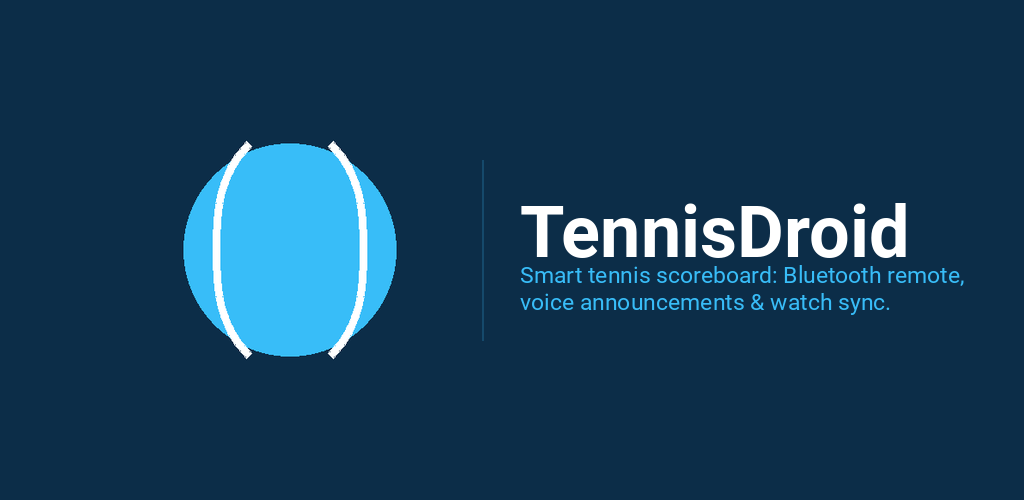
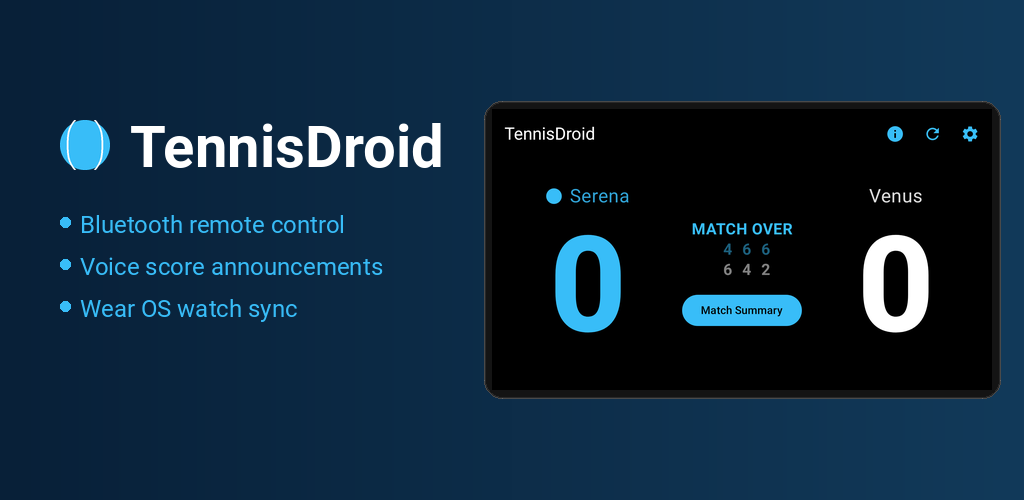
Fix feature graphic

diff --git a/assets/generate_feature_graphic.py b/assets/generate_feature_graphic.py
@@ -1,6 +1,11 @@
 #!/usr/bin/env python3
-"""Generate a 1024x500 Play Store feature graphic for TennisDroid."""
+"""Generate a 1024x500 Play Store feature graphic for TennisDroid.
 
+Layout: left side has app icon + title + feature bullets,
+right side has a landscape screenshot in a device mockup frame.
+"""
+
+import math
 import os
 from pathlib import Path
 
@@ -8,71 +13,309 @@ from PIL import Image, ImageDraw, ImageFont
 
 # Resolve paths relative to this script's directory
 SCRIPT_DIR = Path(os.path.dirname(os.path.abspath(__file__)))
+PROJECT_DIR = SCRIPT_DIR.parent
 
 WIDTH, HEIGHT = 1024, 500
 SKY_BLUE = (56, 189, 248)  # #38BDF8
 WHITE = (255, 255, 255)
-NAVY = (12, 45, 72)  # #0C2D48 — matches icon background
+NAVY_DARK = (8, 32, 56)  # darker left edge
+NAVY_LIGHT = (18, 58, 90)  # lighter right edge
+BEZEL_COLOR = (40, 40, 40)  # dark gray device frame
+BEZEL_INNER = (20, 20, 20)  # slightly darker inner edge
 
-img = Image.new("RGB", (WIDTH, HEIGHT), NAVY)
-draw = ImageDraw.Draw(img, "RGBA")
 
-# --- App icon (paste the actual 512px icon directly) ---
-# Background matches NAVY so the icon blends seamlessly
-icon = Image.open(SCRIPT_DIR / "app_icon_512.png").convert("RGB")
-icon_size = 440
-icon = icon.resize((icon_size, icon_size), Image.LANCZOS)
-icon_x = 290 - icon_size // 2
-icon_y = HEIGHT // 2 - icon_size // 2
-img.paste(icon, (icon_x, icon_y))
+def lerp_color(c1, c2, t):
+    """Linearly interpolate between two RGB colors."""
+    return tuple(int(a + (b - a) * t) for a, b in zip(c1, c2))
 
-# Reinit draw after paste
-draw = ImageDraw.Draw(img, "RGBA")
 
-# --- Text on the right side ---
-try:
-    title_font = ImageFont.truetype("/Library/Fonts/Roboto-Bold.ttf", 72)
-    tagline_font = ImageFont.truetype("/Library/Fonts/Roboto-Regular.ttf", 23)
-except OSError:
+def draw_gradient(img, c1, c2):
+    """Draw a left-to-right horizontal gradient."""
+    draw = ImageDraw.Draw(img)
+    for x in range(img.width):
+        t = x / (img.width - 1)
+        color = lerp_color(c1, c2, t)
+        draw.line([(x, 0), (x, img.height)], fill=color)
+
+
+def draw_rounded_rect(draw, bbox, radius, fill=None, outline=None, width=1):
+    """Draw a rounded rectangle (compatible with older Pillow versions)."""
+    x0, y0, x1, y1 = bbox
+    if fill:
+        # Fill the rounded rectangle using overlapping rectangles + circles
+        draw.rectangle([x0 + radius, y0, x1 - radius, y1], fill=fill)
+        draw.rectangle([x0, y0 + radius, x1, y1 - radius], fill=fill)
+        draw.pieslice([x0, y0, x0 + 2 * radius, y0 + 2 * radius], 180, 270, fill=fill)
+        draw.pieslice(
+            [x1 - 2 * radius, y0, x1, y0 + 2 * radius], 270, 360, fill=fill
+        )
+        draw.pieslice(
+            [x0, y1 - 2 * radius, x0 + 2 * radius, y1], 90, 180, fill=fill
+        )
+        draw.pieslice(
+            [x1 - 2 * radius, y1 - 2 * radius, x1, y1], 0, 90, fill=fill
+        )
+    if outline:
+        # Draw the outline arcs and lines
+        draw.arc(
+            [x0, y0, x0 + 2 * radius, y0 + 2 * radius],
+            180,
+            270,
+            fill=outline,
+            width=width,
+        )
+        draw.arc(
+            [x1 - 2 * radius, y0, x1, y0 + 2 * radius],
+            270,
+            360,
+            fill=outline,
+            width=width,
+        )
+        draw.arc(
+            [x0, y1 - 2 * radius, x0 + 2 * radius, y1],
+            90,
+            180,
+            fill=outline,
+            width=width,
+        )
+        draw.arc(
+            [x1 - 2 * radius, y1 - 2 * radius, x1, y1],
+            0,
+            90,
+            fill=outline,
+            width=width,
+        )
+        draw.line(
+            [(x0 + radius, y0), (x1 - radius, y0)], fill=outline, width=width
+        )
+        draw.line(
+            [(x0 + radius, y1), (x1 - radius, y1)], fill=outline, width=width
+        )
+        draw.line(
+            [(x0, y0 + radius), (x0, y1 - radius)], fill=outline, width=width
+        )
+        draw.line(
+            [(x1, y0 + radius), (x1, y1 - radius)], fill=outline, width=width
+        )
+
+
+def cubic_bezier(p0, p1, p2, p3, steps=64):
+    """Evaluate a cubic bezier curve, returning a list of (x, y) points."""
+    points = []
+    for i in range(steps + 1):
+        t = i / steps
+        u = 1 - t
+        x = u**3 * p0[0] + 3 * u**2 * t * p1[0] + 3 * u * t**2 * p2[0] + t**3 * p3[0]
+        y = u**3 * p0[1] + 3 * u**2 * t * p1[1] + 3 * u * t**2 * p2[1] + t**3 * p3[1]
+        points.append((x, y))
+    return points
+
+
+def draw_tennis_ball(size):
+    """Draw a tennis ball at the given size with transparent background.
+
+    Based on the Android vector drawable: a sky-blue circle with two white
+    seam curves. The ball fills the entire output image (no viewport padding).
+    """
+    # Render at 4x for antialiasing, then downscale
+    render_size = size * 4
+
+    # In the original 108-unit viewport, the ball is centered at (54,54)
+    # with radius 26, so it spans from 28 to 80 (diameter 52).
+    # We remap all coordinates so the ball fills the canvas:
+    #   new_coord = (old_coord - 28) / 52 * render_size
+    def remap(x, y):
+        return ((x - 28) / 52 * render_size, (y - 28) / 52 * render_size)
+
+    ball_img = Image.new("RGBA", (render_size, render_size), (0, 0, 0, 0))
+    draw = ImageDraw.Draw(ball_img, "RGBA")
+
+    # Ball body: fills the canvas
+    draw.ellipse([0, 0, render_size - 1, render_size - 1], fill=SKY_BLUE + (255,))
+
+    # Seam curves (white, stroke width 2 in 108-unit space -> scaled)
+    stroke_w = max(1, int(2 / 52 * render_size))
+
+    # Left seam: M44,28 C36,36 36,46 36,54 C36,62 36,72 44,80
+    left_pts = cubic_bezier(
+        remap(44, 28), remap(36, 36), remap(36, 46), remap(36, 54),
+    ) + cubic_bezier(
+        remap(36, 54), remap(36, 62), remap(36, 72), remap(44, 80),
+    )
+
+    # Right seam: M64,28 C72,36 72,46 72,54 C72,62 72,72 64,80
+    right_pts = cubic_bezier(
+        remap(64, 28), remap(72, 36), remap(72, 46), remap(72, 54),
+    ) + cubic_bezier(
+        remap(72, 54), remap(72, 62), remap(72, 72), remap(64, 80),
+    )
+
+    for pts in (left_pts, right_pts):
+        draw.line(pts, fill=(255, 255, 255, 255), width=stroke_w, joint="curve")
+
+    # Downscale with antialiasing
+    ball_img = ball_img.resize((size, size), Image.LANCZOS)
+    return ball_img
+
+
+def load_font(path, size):
+    """Try to load a font, falling back gracefully."""
     try:
-        title_font = ImageFont.truetype("/System/Library/Fonts/Helvetica.ttc", 72)
-        tagline_font = ImageFont.truetype("/System/Library/Fonts/Helvetica.ttc", 23)
+        return ImageFont.truetype(path, size)
     except OSError:
-        title_font = ImageFont.load_default()
-        tagline_font = ImageFont.load_default()
+        return None
 
-text_x = 520
-title_text = "TennisDroid"
-title_bbox = draw.textbbox((0, 0), title_text, font=title_font)
-title_h = title_bbox[3] - title_bbox[1]
 
-tagline_line1 = "Smart tennis scoreboard: Bluetooth remote,"
-tagline_line2 = "voice announcements & watch sync."
-tag1_bbox = draw.textbbox((0, 0), tagline_line1, font=tagline_font)
-tag1_h = tag1_bbox[3] - tag1_bbox[1]
-tag2_bbox = draw.textbbox((0, 0), tagline_line2, font=tagline_font)
-tag2_h = tag2_bbox[3] - tag2_bbox[1]
-tagline_h = tag1_h + 6 + tag2_h
+def get_fonts():
+    """Load Roboto fonts with fallbacks."""
+    roboto_bold_paths = [
+        "/Library/Fonts/Roboto-Bold.ttf",
+        "/usr/share/fonts/truetype/roboto/Roboto-Bold.ttf",
+    ]
+    roboto_regular_paths = [
+        "/Library/Fonts/Roboto-Regular.ttf",
+        "/usr/share/fonts/truetype/roboto/Roboto-Regular.ttf",
+    ]
+    helvetica = "/System/Library/Fonts/Helvetica.ttc"
 
-# Center all lines vertically as a group
-group_h = title_h + 16 + tagline_h
-title_y = (HEIGHT - group_h) // 2
-tagline_y1 = title_y + title_h + 16
-tagline_y2 = tagline_y1 + tag1_h + 6
+    title_font = None
+    feature_font = None
 
-draw.text((text_x, title_y), title_text, fill=WHITE, font=title_font)
-draw.text((text_x, tagline_y1), tagline_line1, fill=SKY_BLUE, font=tagline_font)
-draw.text((text_x, tagline_y2), tagline_line2, fill=SKY_BLUE, font=tagline_font)
+    for path in roboto_bold_paths:
+        title_font = load_font(path, 58)
+        if title_font:
+            break
 
-# --- Decorative vertical line between ball and text ---
-line_x = 482
-draw.line(
-    [(line_x, HEIGHT // 2 - 90), (line_x, HEIGHT // 2 + 90)],
-    fill=(56, 189, 248, 50),
-    width=2,
-)
+    for path in roboto_regular_paths:
+        feature_font = load_font(path, 24)
+        if feature_font:
+            break
 
-# --- Save ---
-output_path = SCRIPT_DIR / "feature_graphic.png"
-img.save(output_path, "PNG")
-print(f"Saved {output_path} ({img.size[0]}x{img.size[1]})")
+    if not title_font:
+        title_font = load_font(helvetica, 58) or ImageFont.load_default()
+    if not feature_font:
+        feature_font = load_font(helvetica, 24) or ImageFont.load_default()
+
+    return title_font, feature_font
+
+
+def main():
+    # --- Background gradient ---
+    img = Image.new("RGB", (WIDTH, HEIGHT))
+    draw_gradient(img, NAVY_DARK, NAVY_LIGHT)
+
+    draw = ImageDraw.Draw(img, "RGBA")
+    title_font, feature_font = get_fonts()
+
+    # --- Layout constants ---
+    left_margin = 60
+    right_section_x = 460  # where the device mockup starts
+
+    # --- Measure title to size icon accordingly ---
+    title_text = "TennisDroid"
+    title_bbox = draw.textbbox((0, 0), title_text, font=title_font)
+    title_h = title_bbox[3] - title_bbox[1]
+    title_top_offset = title_bbox[1]  # offset from y=0 to first pixel
+
+    # Icon at ~112% of title cap height (150% * 0.75)
+    icon_size = int(title_h * 1.125)
+    icon_gap = 20
+
+    # Vertical position for the title+icon row
+    row_y = 120
+
+    # --- App icon (tennis ball drawn from vector paths) ---
+    # Center icon and title on the same vertical midline
+    row_mid = row_y + icon_size // 2
+    icon = draw_tennis_ball(icon_size)
+    img.paste(icon, (left_margin, row_mid - icon_size // 2), icon)
+    draw = ImageDraw.Draw(img, "RGBA")  # reinit after paste
+
+    # --- App name (vertically centered with icon) ---
+    title_x = left_margin + icon_size + icon_gap
+    title_y = row_mid - title_h // 2 - title_top_offset
+    draw.text((title_x, title_y), title_text, fill=WHITE, font=title_font)
+
+    # --- Feature bullet points ---
+    features = [
+        "Bluetooth remote control",
+        "Voice score announcements",
+        "Wear OS watch sync",
+    ]
+    bullet_y = row_y + icon_size + 40
+    bullet_spacing = 42
+    dot_radius = 5
+
+    for i, feature in enumerate(features):
+        y = bullet_y + i * bullet_spacing
+        # Draw bullet dot, left-aligned with icon
+        dot_cx = left_margin + dot_radius
+        dot_cy = y + 12  # vertically center with text
+        draw.ellipse(
+            [dot_cx - dot_radius, dot_cy - dot_radius,
+             dot_cx + dot_radius, dot_cy + dot_radius],
+            fill=SKY_BLUE,
+        )
+        # Draw feature text after dot
+        draw.text((left_margin + dot_radius * 2 + 10, y), feature, fill=SKY_BLUE, font=feature_font)
+
+    # --- Device mockup with screenshot (right side) ---
+    screenshot_path = PROJECT_DIR / "screenshots" / "score-landscape.png"
+    screenshot = Image.open(screenshot_path).convert("RGB")
+
+    # Target area for the screenshot inside the bezel
+    bezel_thickness = 8
+    corner_radius = 18
+    screen_w = 500
+    screen_h = int(screen_w * screenshot.height / screenshot.width)
+
+    # Resize screenshot to fit
+    screenshot = screenshot.resize((screen_w, screen_h), Image.LANCZOS)
+
+    # Device frame outer dimensions
+    device_w = screen_w + 2 * bezel_thickness
+    device_h = screen_h + 2 * bezel_thickness
+
+    # Position: centered vertically, right-aligned with margin
+    device_x = right_section_x + (WIDTH - right_section_x - device_w) // 2
+    device_y = (HEIGHT - device_h) // 2
+
+    # Draw the outer bezel (dark gray rounded rectangle)
+    draw_rounded_rect(
+        draw,
+        [device_x, device_y, device_x + device_w, device_y + device_h],
+        corner_radius,
+        fill=BEZEL_COLOR,
+    )
+
+    # Draw inner darker edge
+    draw_rounded_rect(
+        draw,
+        [device_x + 2, device_y + 2, device_x + device_w - 2, device_y + device_h - 2],
+        corner_radius - 2,
+        fill=BEZEL_INNER,
+    )
+
+    # Paste the screenshot inside the bezel
+    screen_x = device_x + bezel_thickness
+    screen_y = device_y + bezel_thickness
+    img.paste(screenshot, (screen_x, screen_y))
+
+    # Draw a subtle highlight on top edge of bezel for depth
+    draw = ImageDraw.Draw(img, "RGBA")
+    draw_rounded_rect(
+        draw,
+        [device_x, device_y, device_x + device_w, device_y + device_h],
+        corner_radius,
+        outline=(255, 255, 255, 40),
+        width=1,
+    )
+
+    # --- Save ---
+    output_path = SCRIPT_DIR / "feature_graphic.png"
+    img.save(output_path, "PNG")
+    print(f"Saved {output_path} ({img.size[0]}x{img.size[1]})")
+
+
+if __name__ == "__main__":
+    main()
